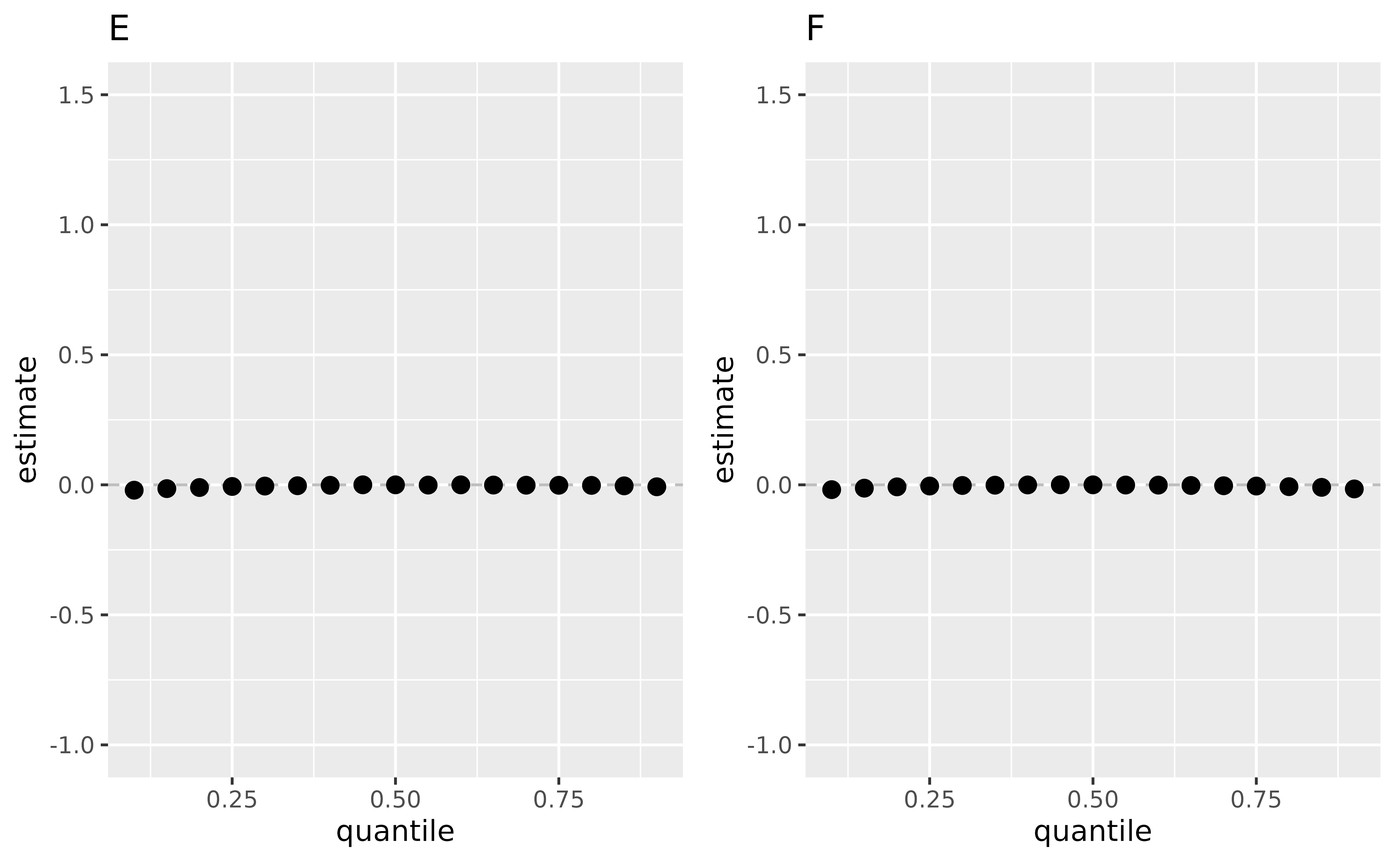
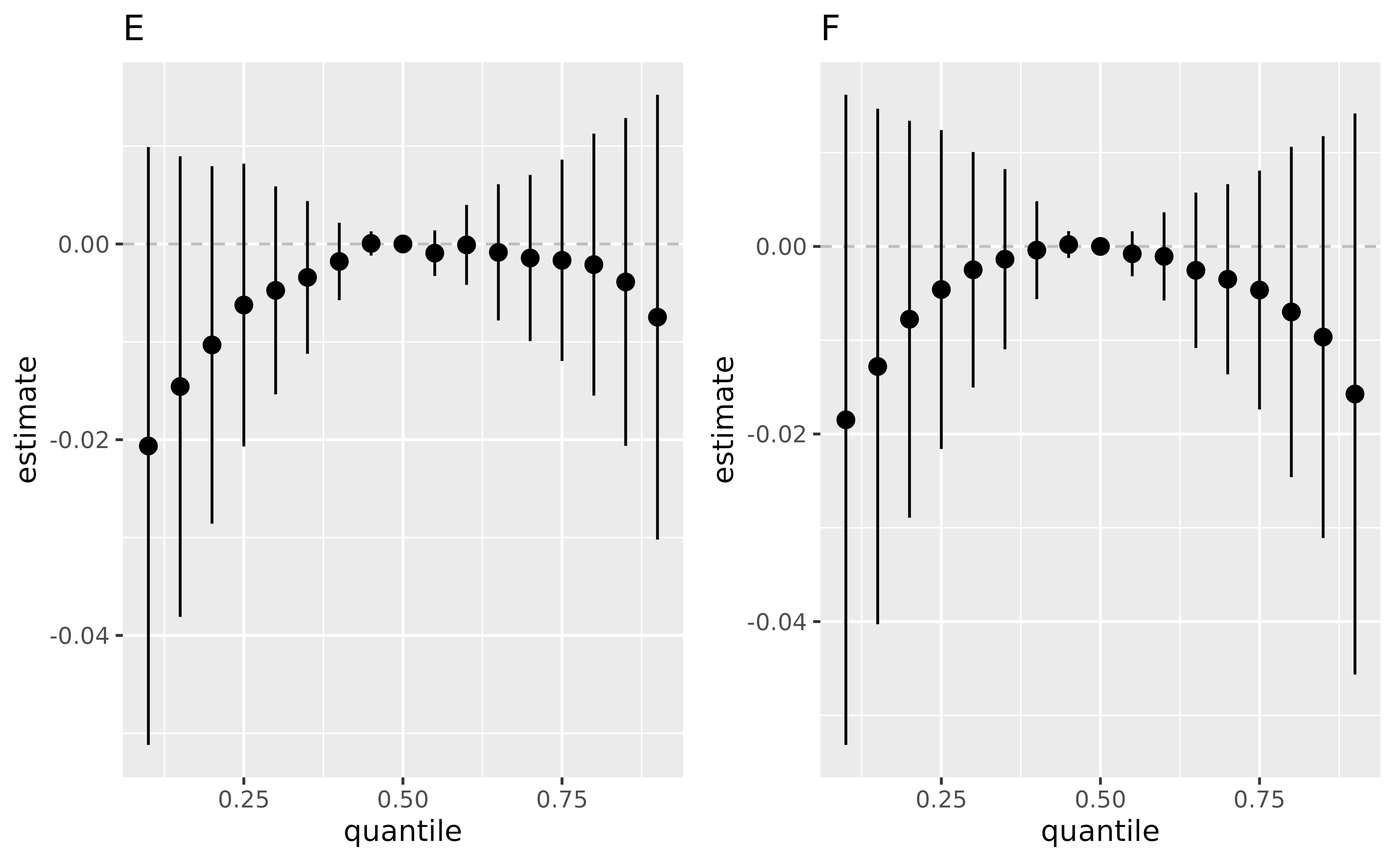
Deploying to gh-pages from @ zc2326/causalbkmr@16186d6708df9340d6ebc545bd19f8a3948e7927 🚀

diff --git a/articles/BKMRCMA_QuickStart.html b/articles/BKMRCMA_QuickStart.html
@@ -291,7 +291,7 @@ percentile:</p>
 <code class="sourceCode R"><span><span class="va">plotdf</span> <span class="op">&lt;-</span> <span class="fu"><a href="https://rdrr.io/r/base/as.data.frame.html" class="external-link">as.data.frame</a></span><span class="op">(</span><span class="va">CDE.ey10</span><span class="op">$</span><span class="va">est</span><span class="op">)</span></span>
 <span><span class="va">plotdf</span><span class="op">[</span><span class="st">"Effect"</span><span class="op">]</span> <span class="op">&lt;-</span> <span class="fu"><a href="https://rdrr.io/r/base/colnames.html" class="external-link">rownames</a></span><span class="op">(</span><span class="va">plotdf</span><span class="op">)</span></span>
 <span><span class="fu"><a href="https://ggplot2.tidyverse.org/reference/ggplot.html" class="external-link">ggplot</a></span><span class="op">(</span><span class="va">plotdf</span>, <span class="fu"><a href="https://ggplot2.tidyverse.org/reference/aes.html" class="external-link">aes</a></span><span class="op">(</span><span class="va">Effect</span>, <span class="va">mean</span>, ymin <span class="op">=</span> <span class="va">lower</span>, ymax <span class="op">=</span> <span class="va">upper</span> <span class="op">)</span><span class="op">)</span>  <span class="op">+</span> </span>
-<span>  <span class="fu"><a href="https://ggplot2.tidyverse.org/reference/geom_linerange.html" class="external-link">geom_pointrange</a></span><span class="op">(</span>position <span class="op">=</span> <span class="fu"><a href="https://ggplot2.tidyverse.org/reference/position_dodge.html" class="external-link">position_dodge</a></span><span class="op">(</span>width <span class="op">=</span> <span class="fl">0.75</span><span class="op">)</span><span class="op">)</span>  <span class="op">+</span>  <span class="fu"><a href="https://ggplot2.tidyverse.org/reference/coord_flip.html" class="external-link">coord_flip</a></span><span class="op">(</span><span class="op">)</span></span></code></pre></div>
+<span>  <span class="fu"><a href="https://ggplot2.tidyverse.org/reference/geom_linerange.html" class="external-link">geom_pointrange</a></span><span class="op">(</span>position <span class="op">=</span> <span class="fu"><a href="https://ggplot2.tidyverse.org/reference/position_dodge.html" class="external-link">position_dodge</a></span><span class="op">(</span>width <span class="op">=</span> <span class="fl">0.5</span><span class="op">)</span><span class="op">)</span>  <span class="op">+</span>  <span class="fu"><a href="https://ggplot2.tidyverse.org/reference/coord_flip.html" class="external-link">coord_flip</a></span><span class="op">(</span><span class="op">)</span></span></code></pre></div>
 <p><img src="BKMRCMA_QuickStart_files/figure-html/unnamed-chunk-8-1.png" width="50%"></p>
 </div>
 <div class="section level2">
@@ -329,7 +329,7 @@ NIE</p>
 <code class="sourceCode R"><span><span class="va">plotdf</span> <span class="op">&lt;-</span> <span class="fu"><a href="https://rdrr.io/r/base/as.data.frame.html" class="external-link">as.data.frame</a></span><span class="op">(</span><span class="va">mediationeffects.ey10</span><span class="op">$</span><span class="va">est</span><span class="op">)</span></span>
 <span><span class="va">plotdf</span><span class="op">[</span><span class="st">"Effect"</span><span class="op">]</span> <span class="op">&lt;-</span> <span class="fu"><a href="https://rdrr.io/r/base/colnames.html" class="external-link">rownames</a></span><span class="op">(</span><span class="va">plotdf</span><span class="op">)</span></span>
 <span><span class="fu"><a href="https://ggplot2.tidyverse.org/reference/ggplot.html" class="external-link">ggplot</a></span><span class="op">(</span><span class="va">plotdf</span>, <span class="fu"><a href="https://ggplot2.tidyverse.org/reference/aes.html" class="external-link">aes</a></span><span class="op">(</span><span class="va">Effect</span>, <span class="va">mean</span>, ymin <span class="op">=</span> <span class="va">lower</span>, ymax <span class="op">=</span> <span class="va">upper</span> <span class="op">)</span><span class="op">)</span>  <span class="op">+</span> </span>
-<span>  <span class="fu"><a href="https://ggplot2.tidyverse.org/reference/geom_linerange.html" class="external-link">geom_pointrange</a></span><span class="op">(</span>position <span class="op">=</span> <span class="fu"><a href="https://ggplot2.tidyverse.org/reference/position_dodge.html" class="external-link">position_dodge</a></span><span class="op">(</span>width <span class="op">=</span> <span class="fl">0.75</span><span class="op">)</span><span class="op">)</span>  </span></code></pre></div>
+<span>  <span class="fu"><a href="https://ggplot2.tidyverse.org/reference/geom_linerange.html" class="external-link">geom_pointrange</a></span><span class="op">(</span>position <span class="op">=</span> <span class="fu"><a href="https://ggplot2.tidyverse.org/reference/position_dodge.html" class="external-link">position_dodge</a></span><span class="op">(</span>width <span class="op">=</span> <span class="fl">0.5</span><span class="op">)</span><span class="op">)</span>  </span></code></pre></div>
 <p><img src="BKMRCMA_QuickStart_files/figure-html/unnamed-chunk-10-1.png" width="50%"></p>
 </div>
 <div class="section level2">
@@ -367,16 +367,14 @@ NIE</p>
 <code class="sourceCode R"><span><span class="co"># CDE </span></span>
 <span><span class="va">CDEriskSummary10</span> <span class="op">=</span> <span class="fu"><a href="../reference/CDERiskSummaries.CMA.html">CDERiskSummaries.CMA</a></span><span class="op">(</span>fit.y <span class="op">=</span> <span class="va">fit.y</span>, e.y <span class="op">=</span> <span class="va">e.y10</span>, e.y.name <span class="op">=</span> <span class="st">"E.Y"</span>, m.name <span class="op">=</span> <span class="st">"m"</span>, sel <span class="op">=</span> <span class="va">sel</span><span class="op">)</span></span>
 <span> </span>
-<span><span class="va">plot_CDErisk10</span> <span class="op">&lt;-</span> <span class="fu"><a href="https://ggplot2.tidyverse.org/reference/ggplot.html" class="external-link">ggplot</a></span><span class="op">(</span><span class="va">CDEriskSummary10</span>, <span class="fu"><a href="https://ggplot2.tidyverse.org/reference/aes.html" class="external-link">aes</a></span><span class="op">(</span><span class="va">quantile</span>, <span class="va">est</span>, ymin <span class="op">=</span> <span class="va">est</span> <span class="op">-</span> <span class="fl">1.96</span><span class="op">*</span><span class="va">sd</span>, </span>
-<span>                             ymax <span class="op">=</span> <span class="va">est</span> <span class="op">+</span> <span class="fl">1.96</span><span class="op">*</span><span class="va">sd</span>, col <span class="op">=</span> <span class="va">m</span><span class="op">)</span><span class="op">)</span> <span class="op">+</span> <span class="fu"><a href="https://ggplot2.tidyverse.org/reference/theme.html" class="external-link">theme</a></span><span class="op">(</span>legend.position<span class="op">=</span><span class="st">"none"</span><span class="op">)</span> <span class="op">+</span> <span class="fu"><a href="https://ggplot2.tidyverse.org/reference/geom_linerange.html" class="external-link">geom_pointrange</a></span><span class="op">(</span>position <span class="op">=</span> <span class="fu"><a href="https://ggplot2.tidyverse.org/reference/position_dodge.html" class="external-link">position_dodge</a></span><span class="op">(</span>width <span class="op">=</span> <span class="fl">0.5</span><span class="op">)</span><span class="op">)</span>   </span>
+<span><span class="va">plot_CDErisk10</span> <span class="op">&lt;-</span> <span class="fu"><a href="https://ggplot2.tidyverse.org/reference/ggplot.html" class="external-link">ggplot</a></span><span class="op">(</span><span class="va">CDEriskSummary10</span>, <span class="fu"><a href="https://ggplot2.tidyverse.org/reference/aes.html" class="external-link">aes</a></span><span class="op">(</span><span class="va">quantile</span>, <span class="va">est</span>, ymin <span class="op">=</span> <span class="va">est</span> <span class="op">-</span> <span class="fl">1.96</span><span class="op">*</span><span class="va">sd</span>,  ymax <span class="op">=</span> <span class="va">est</span> <span class="op">+</span> <span class="fl">1.96</span><span class="op">*</span><span class="va">sd</span>, col <span class="op">=</span> <span class="va">m</span><span class="op">)</span><span class="op">)</span> <span class="op">+</span> <span class="fu"><a href="https://ggplot2.tidyverse.org/reference/theme.html" class="external-link">theme</a></span><span class="op">(</span>legend.position<span class="op">=</span><span class="st">"none"</span><span class="op">)</span> <span class="op">+</span> <span class="fu"><a href="https://ggplot2.tidyverse.org/reference/geom_linerange.html" class="external-link">geom_pointrange</a></span><span class="op">(</span>size <span class="op">=</span> <span class="fl">0.5</span>, position <span class="op">=</span> <span class="fu"><a href="https://ggplot2.tidyverse.org/reference/position_dodge.html" class="external-link">position_dodge</a></span><span class="op">(</span>width <span class="op">=</span> <span class="fl">0.2</span><span class="op">)</span><span class="op">)</span>   </span>
 <span></span>
 <span><span class="va">CDEriskSummary90</span> <span class="op">=</span> <span class="fu"><a href="../reference/CDERiskSummaries.CMA.html">CDERiskSummaries.CMA</a></span><span class="op">(</span>fit.y <span class="op">=</span> <span class="va">fit.y</span>, e.y <span class="op">=</span> <span class="va">e.y90</span>, e.y.name <span class="op">=</span> <span class="st">"E.Y"</span>, m.name <span class="op">=</span> <span class="st">"m"</span>, sel <span class="op">=</span> <span class="va">sel</span><span class="op">)</span></span>
 <span></span>
-<span><span class="va">plot_CDErisk90</span> <span class="op">&lt;-</span> <span class="fu"><a href="https://ggplot2.tidyverse.org/reference/ggplot.html" class="external-link">ggplot</a></span><span class="op">(</span><span class="va">CDEriskSummary90</span>, <span class="fu"><a href="https://ggplot2.tidyverse.org/reference/aes.html" class="external-link">aes</a></span><span class="op">(</span><span class="va">quantile</span>, <span class="va">est</span>, ymin <span class="op">=</span> <span class="va">est</span> <span class="op">-</span> <span class="fl">1.96</span><span class="op">*</span><span class="va">sd</span>, </span>
-<span>                             ymax <span class="op">=</span> <span class="va">est</span> <span class="op">+</span> <span class="fl">1.96</span><span class="op">*</span><span class="va">sd</span>, col <span class="op">=</span> <span class="va">m</span><span class="op">)</span><span class="op">)</span> <span class="op">+</span> </span>
-<span>  <span class="fu"><a href="https://ggplot2.tidyverse.org/reference/geom_linerange.html" class="external-link">geom_pointrange</a></span><span class="op">(</span>position <span class="op">=</span> <span class="fu"><a href="https://ggplot2.tidyverse.org/reference/position_dodge.html" class="external-link">position_dodge</a></span><span class="op">(</span>width <span class="op">=</span> <span class="fl">0.5</span><span class="op">)</span><span class="op">)</span></span>
+<span><span class="va">plot_CDErisk90</span> <span class="op">&lt;-</span> <span class="fu"><a href="https://ggplot2.tidyverse.org/reference/ggplot.html" class="external-link">ggplot</a></span><span class="op">(</span><span class="va">CDEriskSummary90</span>, <span class="fu"><a href="https://ggplot2.tidyverse.org/reference/aes.html" class="external-link">aes</a></span><span class="op">(</span><span class="va">quantile</span>, <span class="va">est</span>, ymin <span class="op">=</span> <span class="va">est</span> <span class="op">-</span> <span class="fl">1.96</span><span class="op">*</span><span class="va">sd</span>,  ymax <span class="op">=</span> <span class="va">est</span> <span class="op">+</span> <span class="fl">1.96</span><span class="op">*</span><span class="va">sd</span>, col <span class="op">=</span> <span class="va">m</span><span class="op">)</span><span class="op">)</span> <span class="op">+</span> </span>
+<span>  <span class="fu"><a href="https://ggplot2.tidyverse.org/reference/geom_linerange.html" class="external-link">geom_pointrange</a></span><span class="op">(</span>size <span class="op">=</span> <span class="fl">0.5</span>, position <span class="op">=</span> <span class="fu"><a href="https://ggplot2.tidyverse.org/reference/position_dodge.html" class="external-link">position_dodge</a></span><span class="op">(</span>width <span class="op">=</span> <span class="fl">0.2</span><span class="op">)</span><span class="op">)</span></span>
 <span><span class="fu"><a href="https://rpkgs.datanovia.com/ggpubr/reference/ggarrange.html" class="external-link">ggarrange</a></span><span class="op">(</span><span class="va">plot_CDErisk10</span>, <span class="va">plot_CDErisk90</span>, ncol<span class="op">=</span><span class="fl">2</span>, nrow <span class="op">=</span><span class="fl">1</span><span class="op">)</span></span></code></pre></div>
-<p><img src="BKMRCMA_QuickStart_files/figure-html/CDERisk-1.png" width="768"></p>
+<p><img src="BKMRCMA_QuickStart_files/figure-html/CDERisk-1.png" width="2400"></p>
 </div>
 </div>
 <div class="section level2">
@@ -391,7 +389,7 @@ NIE</p>
 <span>                                           sel<span class="op">=</span><span class="va">sel</span><span class="op">)</span></span>
 <span></span>
 <span><span class="va">plot_singvar10</span> <span class="op">&lt;-</span> <span class="fu"><a href="https://ggplot2.tidyverse.org/reference/ggplot.html" class="external-link">ggplot</a></span><span class="op">(</span><span class="va">risks.singvar10</span>, <span class="fu"><a href="https://ggplot2.tidyverse.org/reference/aes.html" class="external-link">aes</a></span><span class="op">(</span><span class="va">variable</span>, <span class="va">est</span>, ymin <span class="op">=</span> <span class="va">est</span> <span class="op">-</span> <span class="fl">1.96</span><span class="op">*</span><span class="va">sd</span>, ymax <span class="op">=</span> <span class="va">est</span> <span class="op">+</span> <span class="fl">1.96</span><span class="op">*</span><span class="va">sd</span>, col <span class="op">=</span> <span class="va">q.fixed</span><span class="op">)</span><span class="op">)</span> <span class="op">+</span> <span class="fu"><a href="https://ggplot2.tidyverse.org/reference/theme.html" class="external-link">theme</a></span><span class="op">(</span>legend.position<span class="op">=</span><span class="st">"none"</span><span class="op">)</span><span class="op">+</span></span>
-<span>  <span class="fu"><a href="https://ggplot2.tidyverse.org/reference/geom_linerange.html" class="external-link">geom_pointrange</a></span><span class="op">(</span>position <span class="op">=</span> <span class="fu"><a href="https://ggplot2.tidyverse.org/reference/position_dodge.html" class="external-link">position_dodge</a></span><span class="op">(</span>width <span class="op">=</span> <span class="fl">0.5</span><span class="op">)</span><span class="op">)</span> <span class="op">+</span></span>
+<span>  <span class="fu"><a href="https://ggplot2.tidyverse.org/reference/geom_linerange.html" class="external-link">geom_pointrange</a></span><span class="op">(</span>size<span class="op">=</span> <span class="fl">.3</span>, position <span class="op">=</span> <span class="fu"><a href="https://ggplot2.tidyverse.org/reference/position_dodge.html" class="external-link">position_dodge</a></span><span class="op">(</span>width <span class="op">=</span> <span class="fl">0.2</span><span class="op">)</span><span class="op">)</span> <span class="op">+</span></span>
 <span>  <span class="fu"><a href="https://ggplot2.tidyverse.org/reference/coord_flip.html" class="external-link">coord_flip</a></span><span class="op">(</span><span class="op">)</span></span>
 <span> </span>
 <span><span class="va">risks.singvar90</span> <span class="op">=</span> <span class="fu"><a href="../reference/SingVarRiskSummaries.CMA.html">SingVarRiskSummaries.CMA</a></span><span class="op">(</span>BKMRfits <span class="op">=</span> <span class="va">fit.y.TE</span>, which.z <span class="op">=</span> <span class="fl">1</span><span class="op">:</span><span class="fl">3</span>,</span>
@@ -399,11 +397,11 @@ NIE</p>
 <span>                                           sel<span class="op">=</span><span class="va">sel</span><span class="op">)</span></span>
 <span></span>
 <span><span class="va">plot_singvar90</span> <span class="op">&lt;-</span> <span class="fu"><a href="https://ggplot2.tidyverse.org/reference/ggplot.html" class="external-link">ggplot</a></span><span class="op">(</span><span class="va">risks.singvar90</span>, <span class="fu"><a href="https://ggplot2.tidyverse.org/reference/aes.html" class="external-link">aes</a></span><span class="op">(</span><span class="va">variable</span>, <span class="va">est</span>, ymin <span class="op">=</span> <span class="va">est</span> <span class="op">-</span> <span class="fl">1.96</span><span class="op">*</span><span class="va">sd</span>, ymax <span class="op">=</span> <span class="va">est</span> <span class="op">+</span> <span class="fl">1.96</span><span class="op">*</span><span class="va">sd</span>, col <span class="op">=</span> <span class="va">q.fixed</span><span class="op">)</span><span class="op">)</span> <span class="op">+</span></span>
-<span>  <span class="fu"><a href="https://ggplot2.tidyverse.org/reference/geom_linerange.html" class="external-link">geom_pointrange</a></span><span class="op">(</span>position <span class="op">=</span> <span class="fu"><a href="https://ggplot2.tidyverse.org/reference/position_dodge.html" class="external-link">position_dodge</a></span><span class="op">(</span>width <span class="op">=</span> <span class="fl">0.5</span><span class="op">)</span><span class="op">)</span> <span class="op">+</span></span>
+<span>  <span class="fu"><a href="https://ggplot2.tidyverse.org/reference/geom_linerange.html" class="external-link">geom_pointrange</a></span><span class="op">(</span>size<span class="op">=</span> <span class="fl">.3</span>, position <span class="op">=</span> <span class="fu"><a href="https://ggplot2.tidyverse.org/reference/position_dodge.html" class="external-link">position_dodge</a></span><span class="op">(</span>width <span class="op">=</span> <span class="fl">0.2</span><span class="op">)</span><span class="op">)</span> <span class="op">+</span></span>
 <span>  <span class="fu"><a href="https://ggplot2.tidyverse.org/reference/coord_flip.html" class="external-link">coord_flip</a></span><span class="op">(</span><span class="op">)</span></span>
 <span></span>
 <span><span class="fu"><a href="https://rpkgs.datanovia.com/ggpubr/reference/ggarrange.html" class="external-link">ggarrange</a></span><span class="op">(</span><span class="va">plot_singvar10</span>, <span class="va">plot_singvar90</span>, ncol<span class="op">=</span><span class="fl">2</span>, nrow<span class="op">=</span><span class="fl">1</span><span class="op">)</span></span></code></pre></div>
-<p><img src="BKMRCMA_QuickStart_files/figure-html/TEsingvar-1.png" width="700"></p>
+<p><img src="BKMRCMA_QuickStart_files/figure-html/TEsingvar-1.png" width="2187.5"></p>
 </div>
 <div class="section level3">
 <h3 id="controlled-direct-effect">Controlled Direct Effect<a class="anchor" aria-label="anchor" href="#controlled-direct-effect"></a>
@@ -415,7 +413,7 @@ NIE</p>
 <span>                                           sel<span class="op">=</span><span class="va">sel</span><span class="op">)</span> </span>
 <span><span class="va">plotCDE10</span> <span class="op">&lt;-</span> <span class="fu"><a href="https://ggplot2.tidyverse.org/reference/ggplot.html" class="external-link">ggplot</a></span><span class="op">(</span><span class="va">CDErisks.singvar10</span>, <span class="fu"><a href="https://ggplot2.tidyverse.org/reference/aes.html" class="external-link">aes</a></span><span class="op">(</span><span class="va">variable</span>, <span class="va">est</span>, ymin <span class="op">=</span> <span class="va">est</span> <span class="op">-</span> <span class="fl">1.96</span><span class="op">*</span><span class="va">sd</span>,</span>
 <span>                            ymax <span class="op">=</span> <span class="va">est</span> <span class="op">+</span> <span class="fl">1.96</span><span class="op">*</span><span class="va">sd</span>, col <span class="op">=</span> <span class="va">q.fixed</span>, linetype <span class="op">=</span> <span class="va">m.fixed</span><span class="op">)</span><span class="op">)</span> <span class="op">+</span></span>
-<span>  <span class="fu"><a href="https://ggplot2.tidyverse.org/reference/geom_linerange.html" class="external-link">geom_pointrange</a></span><span class="op">(</span>position <span class="op">=</span> <span class="fu"><a href="https://ggplot2.tidyverse.org/reference/position_dodge.html" class="external-link">position_dodge</a></span><span class="op">(</span>width <span class="op">=</span> <span class="fl">0.5</span><span class="op">)</span><span class="op">)</span> <span class="op">+</span><span class="fu"><a href="https://ggplot2.tidyverse.org/reference/theme.html" class="external-link">theme</a></span><span class="op">(</span>legend.position<span class="op">=</span><span class="st">"none"</span><span class="op">)</span><span class="op">+</span></span>
+<span>  <span class="fu"><a href="https://ggplot2.tidyverse.org/reference/geom_linerange.html" class="external-link">geom_pointrange</a></span><span class="op">(</span>size <span class="op">=</span> <span class="fl">0.5</span>, position <span class="op">=</span> <span class="fu"><a href="https://ggplot2.tidyverse.org/reference/position_dodge.html" class="external-link">position_dodge</a></span><span class="op">(</span>width <span class="op">=</span> <span class="fl">0.2</span><span class="op">)</span><span class="op">)</span> <span class="op">+</span><span class="fu"><a href="https://ggplot2.tidyverse.org/reference/theme.html" class="external-link">theme</a></span><span class="op">(</span>legend.position<span class="op">=</span><span class="st">"none"</span><span class="op">)</span><span class="op">+</span></span>
 <span>  <span class="fu"><a href="https://ggplot2.tidyverse.org/reference/coord_flip.html" class="external-link">coord_flip</a></span><span class="op">(</span><span class="op">)</span> </span>
 <span></span>
 <span><span class="va">CDErisks.singvar90</span> <span class="op">=</span> <span class="fu"><a href="../reference/CDESingVarRiskSummaries.CMA.html">CDESingVarRiskSummaries.CMA</a></span><span class="op">(</span>BKMRfits <span class="op">=</span> <span class="va">fit.y</span>,</span>
@@ -424,10 +422,10 @@ NIE</p>
 <span></span>
 <span><span class="va">plotCDE90</span> <span class="op">&lt;-</span> <span class="fu"><a href="https://ggplot2.tidyverse.org/reference/ggplot.html" class="external-link">ggplot</a></span><span class="op">(</span><span class="va">CDErisks.singvar90</span>, <span class="fu"><a href="https://ggplot2.tidyverse.org/reference/aes.html" class="external-link">aes</a></span><span class="op">(</span><span class="va">variable</span>, <span class="va">est</span>, ymin <span class="op">=</span> <span class="va">est</span> <span class="op">-</span> <span class="fl">1.96</span><span class="op">*</span><span class="va">sd</span>,</span>
 <span>                               ymax <span class="op">=</span> <span class="va">est</span> <span class="op">+</span> <span class="fl">1.96</span><span class="op">*</span><span class="va">sd</span>, col <span class="op">=</span> <span class="va">q.fixed</span>, linetype <span class="op">=</span> <span class="va">m.fixed</span><span class="op">)</span><span class="op">)</span> <span class="op">+</span></span>
-<span>  <span class="fu"><a href="https://ggplot2.tidyverse.org/reference/geom_linerange.html" class="external-link">geom_pointrange</a></span><span class="op">(</span>position <span class="op">=</span> <span class="fu"><a href="https://ggplot2.tidyverse.org/reference/position_dodge.html" class="external-link">position_dodge</a></span><span class="op">(</span>width <span class="op">=</span> <span class="fl">0.5</span><span class="op">)</span><span class="op">)</span> <span class="op">+</span></span>
+<span>  <span class="fu"><a href="https://ggplot2.tidyverse.org/reference/geom_linerange.html" class="external-link">geom_pointrange</a></span><span class="op">(</span>size <span class="op">=</span> <span class="fl">0.5</span>, position <span class="op">=</span> <span class="fu"><a href="https://ggplot2.tidyverse.org/reference/position_dodge.html" class="external-link">position_dodge</a></span><span class="op">(</span>width <span class="op">=</span> <span class="fl">0.2</span><span class="op">)</span><span class="op">)</span> <span class="op">+</span></span>
 <span>  <span class="fu"><a href="https://ggplot2.tidyverse.org/reference/coord_flip.html" class="external-link">coord_flip</a></span><span class="op">(</span><span class="op">)</span></span>
 <span><span class="fu"><a href="https://rpkgs.datanovia.com/ggpubr/reference/ggarrange.html" class="external-link">ggarrange</a></span><span class="op">(</span><span class="va">plotCDE10</span>, <span class="va">plotCDE90</span>, ncol<span class="op">=</span><span class="fl">2</span>, nrow <span class="op">=</span><span class="fl">1</span><span class="op">)</span></span></code></pre></div>
-<p><img src="BKMRCMA_QuickStart_files/figure-html/CDERisksingvar10-1.png" width="700"></p>
+<p><img src="BKMRCMA_QuickStart_files/figure-html/CDERisksingvar10-1.png" width="2187.5"></p>
 </div>
 </div>
   </div>

diff --git a/articles/BKMRCMA_Effectof_singleZ.html b/articles/BKMRCMA_Effectof_singleZ.html
@@ -283,10 +283,10 @@ percentile.</p>
 <span></span>
 <span><span class="va">pE</span> <span class="op">&lt;-</span> <span class="fu"><a href="https://ggplot2.tidyverse.org/reference/ggplot.html" class="external-link">ggplot</a></span><span class="op">(</span><span class="va">ListofResTables</span><span class="op">[[</span><span class="fl">1</span><span class="op">]</span><span class="op">]</span>, <span class="fu"><a href="https://ggplot2.tidyverse.org/reference/aes.html" class="external-link">aes</a></span><span class="op">(</span><span class="va">quantile</span>, <span class="va">est</span>, ymin <span class="op">=</span> <span class="va">est</span> <span class="op">-</span> <span class="fl">1.96</span><span class="op">*</span><span class="va">sd</span>, ymax <span class="op">=</span> <span class="va">est</span> <span class="op">+</span> <span class="fl">1.96</span><span class="op">*</span><span class="va">sd</span><span class="op">)</span><span class="op">)</span> <span class="op">+</span>  </span>
 <span>  <span class="fu"><a href="https://ggplot2.tidyverse.org/reference/geom_abline.html" class="external-link">geom_hline</a></span><span class="op">(</span>yintercept<span class="op">=</span><span class="fl">00</span>, linetype<span class="op">=</span><span class="st">"dashed"</span>, color<span class="op">=</span><span class="st">"gray"</span><span class="op">)</span><span class="op">+</span> </span>
-<span>  <span class="fu"><a href="https://ggplot2.tidyverse.org/reference/geom_linerange.html" class="external-link">geom_pointrange</a></span><span class="op">(</span><span class="op">)</span><span class="op">+</span> <span class="fu"><a href="https://ggplot2.tidyverse.org/reference/labs.html" class="external-link">ggtitle</a></span><span class="op">(</span><span class="st">"E"</span><span class="op">)</span><span class="op">+</span> <span class="fu"><a href="https://ggplot2.tidyverse.org/reference/scale_continuous.html" class="external-link">scale_y_continuous</a></span><span class="op">(</span>name<span class="op">=</span><span class="st">"estimate"</span>, limits <span class="op">=</span> <span class="fu"><a href="https://rdrr.io/r/base/c.html" class="external-link">c</a></span><span class="op">(</span><span class="op">-</span><span class="fl">1</span>, <span class="fl">1.5</span><span class="op">)</span><span class="op">)</span>  </span>
+<span>  <span class="fu"><a href="https://ggplot2.tidyverse.org/reference/geom_linerange.html" class="external-link">geom_pointrange</a></span><span class="op">(</span><span class="op">)</span><span class="op">+</span> <span class="fu"><a href="https://ggplot2.tidyverse.org/reference/labs.html" class="external-link">ggtitle</a></span><span class="op">(</span><span class="st">"E"</span><span class="op">)</span><span class="op">+</span> <span class="fu"><a href="https://ggplot2.tidyverse.org/reference/scale_continuous.html" class="external-link">scale_y_continuous</a></span><span class="op">(</span>name<span class="op">=</span><span class="st">"estimate"</span> <span class="op">)</span>  </span>
 <span><span class="va">pF</span> <span class="op">&lt;-</span> <span class="fu"><a href="https://ggplot2.tidyverse.org/reference/ggplot.html" class="external-link">ggplot</a></span><span class="op">(</span><span class="va">ListofResTables</span><span class="op">[[</span><span class="fl">2</span><span class="op">]</span><span class="op">]</span>, <span class="fu"><a href="https://ggplot2.tidyverse.org/reference/aes.html" class="external-link">aes</a></span><span class="op">(</span><span class="va">quantile</span>, <span class="va">est</span>, ymin <span class="op">=</span> <span class="va">est</span> <span class="op">-</span> <span class="fl">1.96</span><span class="op">*</span><span class="va">sd</span>, ymax <span class="op">=</span> <span class="va">est</span> <span class="op">+</span> <span class="fl">1.96</span><span class="op">*</span><span class="va">sd</span><span class="op">)</span><span class="op">)</span> <span class="op">+</span>  </span>
 <span>  <span class="fu"><a href="https://ggplot2.tidyverse.org/reference/geom_abline.html" class="external-link">geom_hline</a></span><span class="op">(</span>yintercept<span class="op">=</span><span class="fl">00</span>, linetype<span class="op">=</span><span class="st">"dashed"</span>, color<span class="op">=</span><span class="st">"gray"</span><span class="op">)</span><span class="op">+</span> </span>
-<span>  <span class="fu"><a href="https://ggplot2.tidyverse.org/reference/geom_linerange.html" class="external-link">geom_pointrange</a></span><span class="op">(</span><span class="op">)</span><span class="op">+</span> <span class="fu"><a href="https://ggplot2.tidyverse.org/reference/labs.html" class="external-link">ggtitle</a></span><span class="op">(</span><span class="st">"F"</span><span class="op">)</span><span class="op">+</span> <span class="fu"><a href="https://ggplot2.tidyverse.org/reference/scale_continuous.html" class="external-link">scale_y_continuous</a></span><span class="op">(</span>name<span class="op">=</span><span class="st">"estimate"</span>, limits <span class="op">=</span> <span class="fu"><a href="https://rdrr.io/r/base/c.html" class="external-link">c</a></span><span class="op">(</span><span class="op">-</span><span class="fl">1</span>, <span class="fl">1.5</span><span class="op">)</span><span class="op">)</span> </span>
+<span>  <span class="fu"><a href="https://ggplot2.tidyverse.org/reference/geom_linerange.html" class="external-link">geom_pointrange</a></span><span class="op">(</span><span class="op">)</span><span class="op">+</span> <span class="fu"><a href="https://ggplot2.tidyverse.org/reference/labs.html" class="external-link">ggtitle</a></span><span class="op">(</span><span class="st">"F"</span><span class="op">)</span><span class="op">+</span> <span class="fu"><a href="https://ggplot2.tidyverse.org/reference/scale_continuous.html" class="external-link">scale_y_continuous</a></span><span class="op">(</span>name<span class="op">=</span><span class="st">"estimate"</span><span class="op">)</span> </span>
 <span><span class="fu"><a href="https://rpkgs.datanovia.com/ggpubr/reference/ggarrange.html" class="external-link">ggarrange</a></span><span class="op">(</span><span class="va">pE</span> , <span class="va">pF</span> , ncol<span class="op">=</span><span class="fl">2</span>, nrow <span class="op">=</span><span class="fl">1</span><span class="op">)</span></span></code></pre></div>
 <p><img src="BKMRCMA_Effectof_singleZ_files/figure-html/unnamed-chunk-9-1.png" width="2187.5"></p>
 </div>
